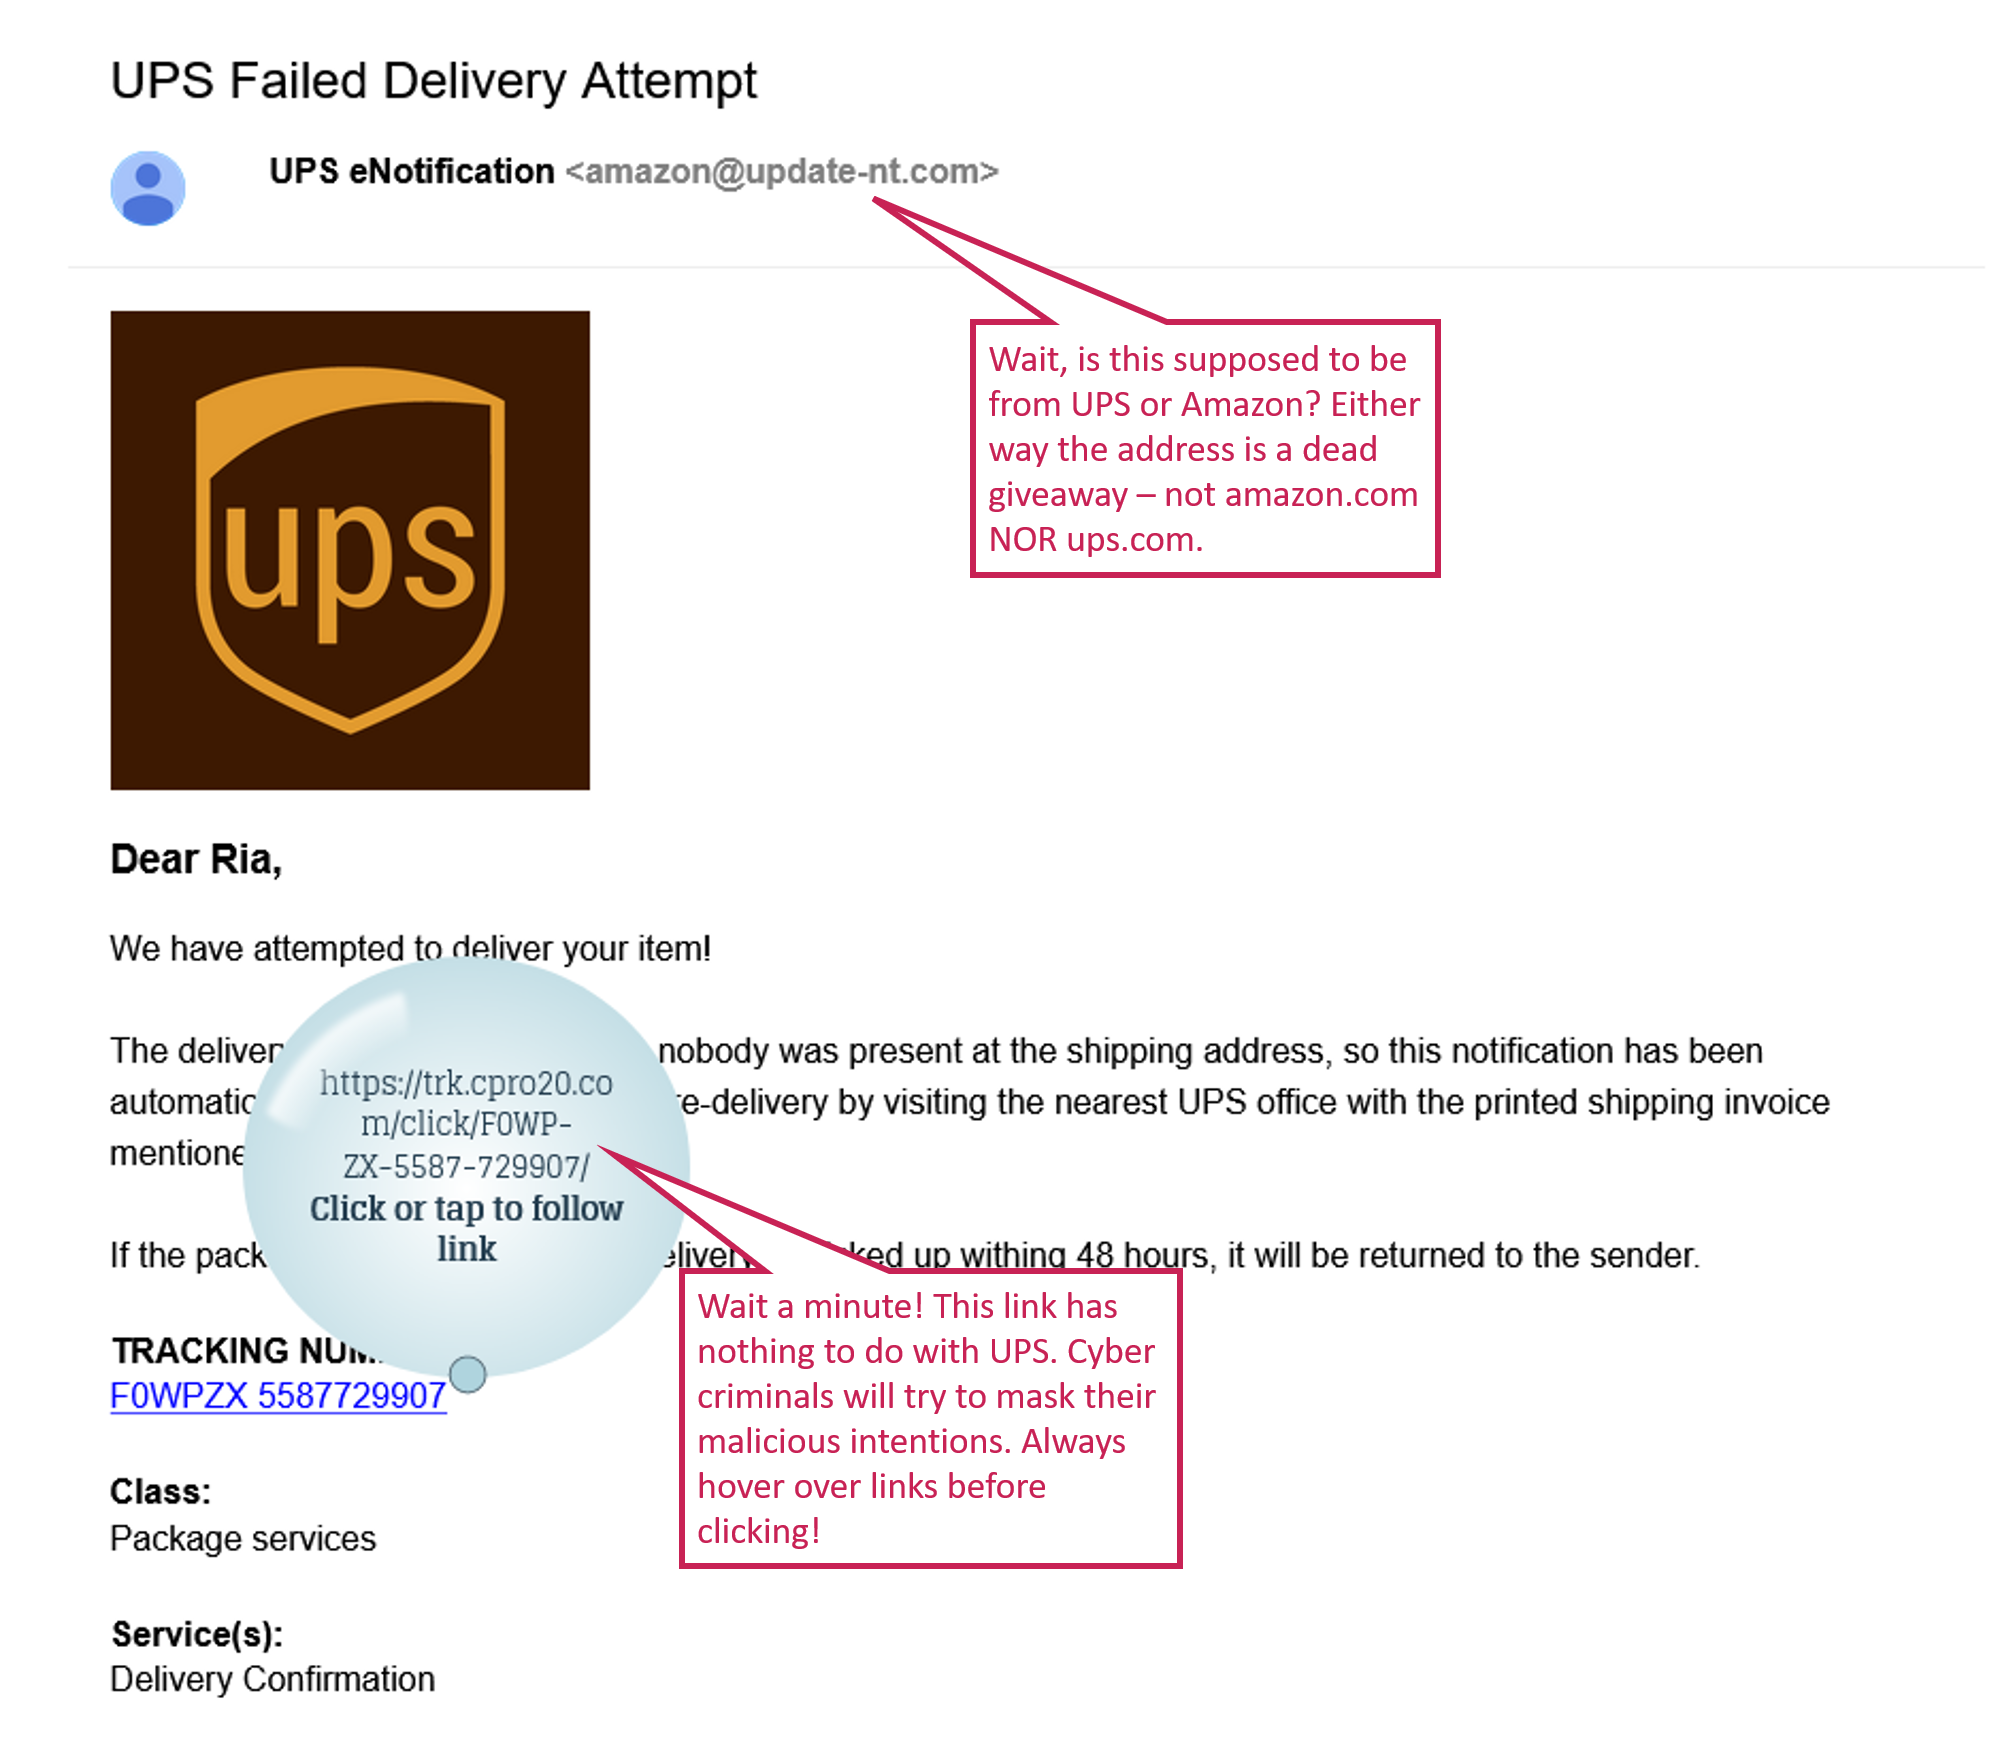
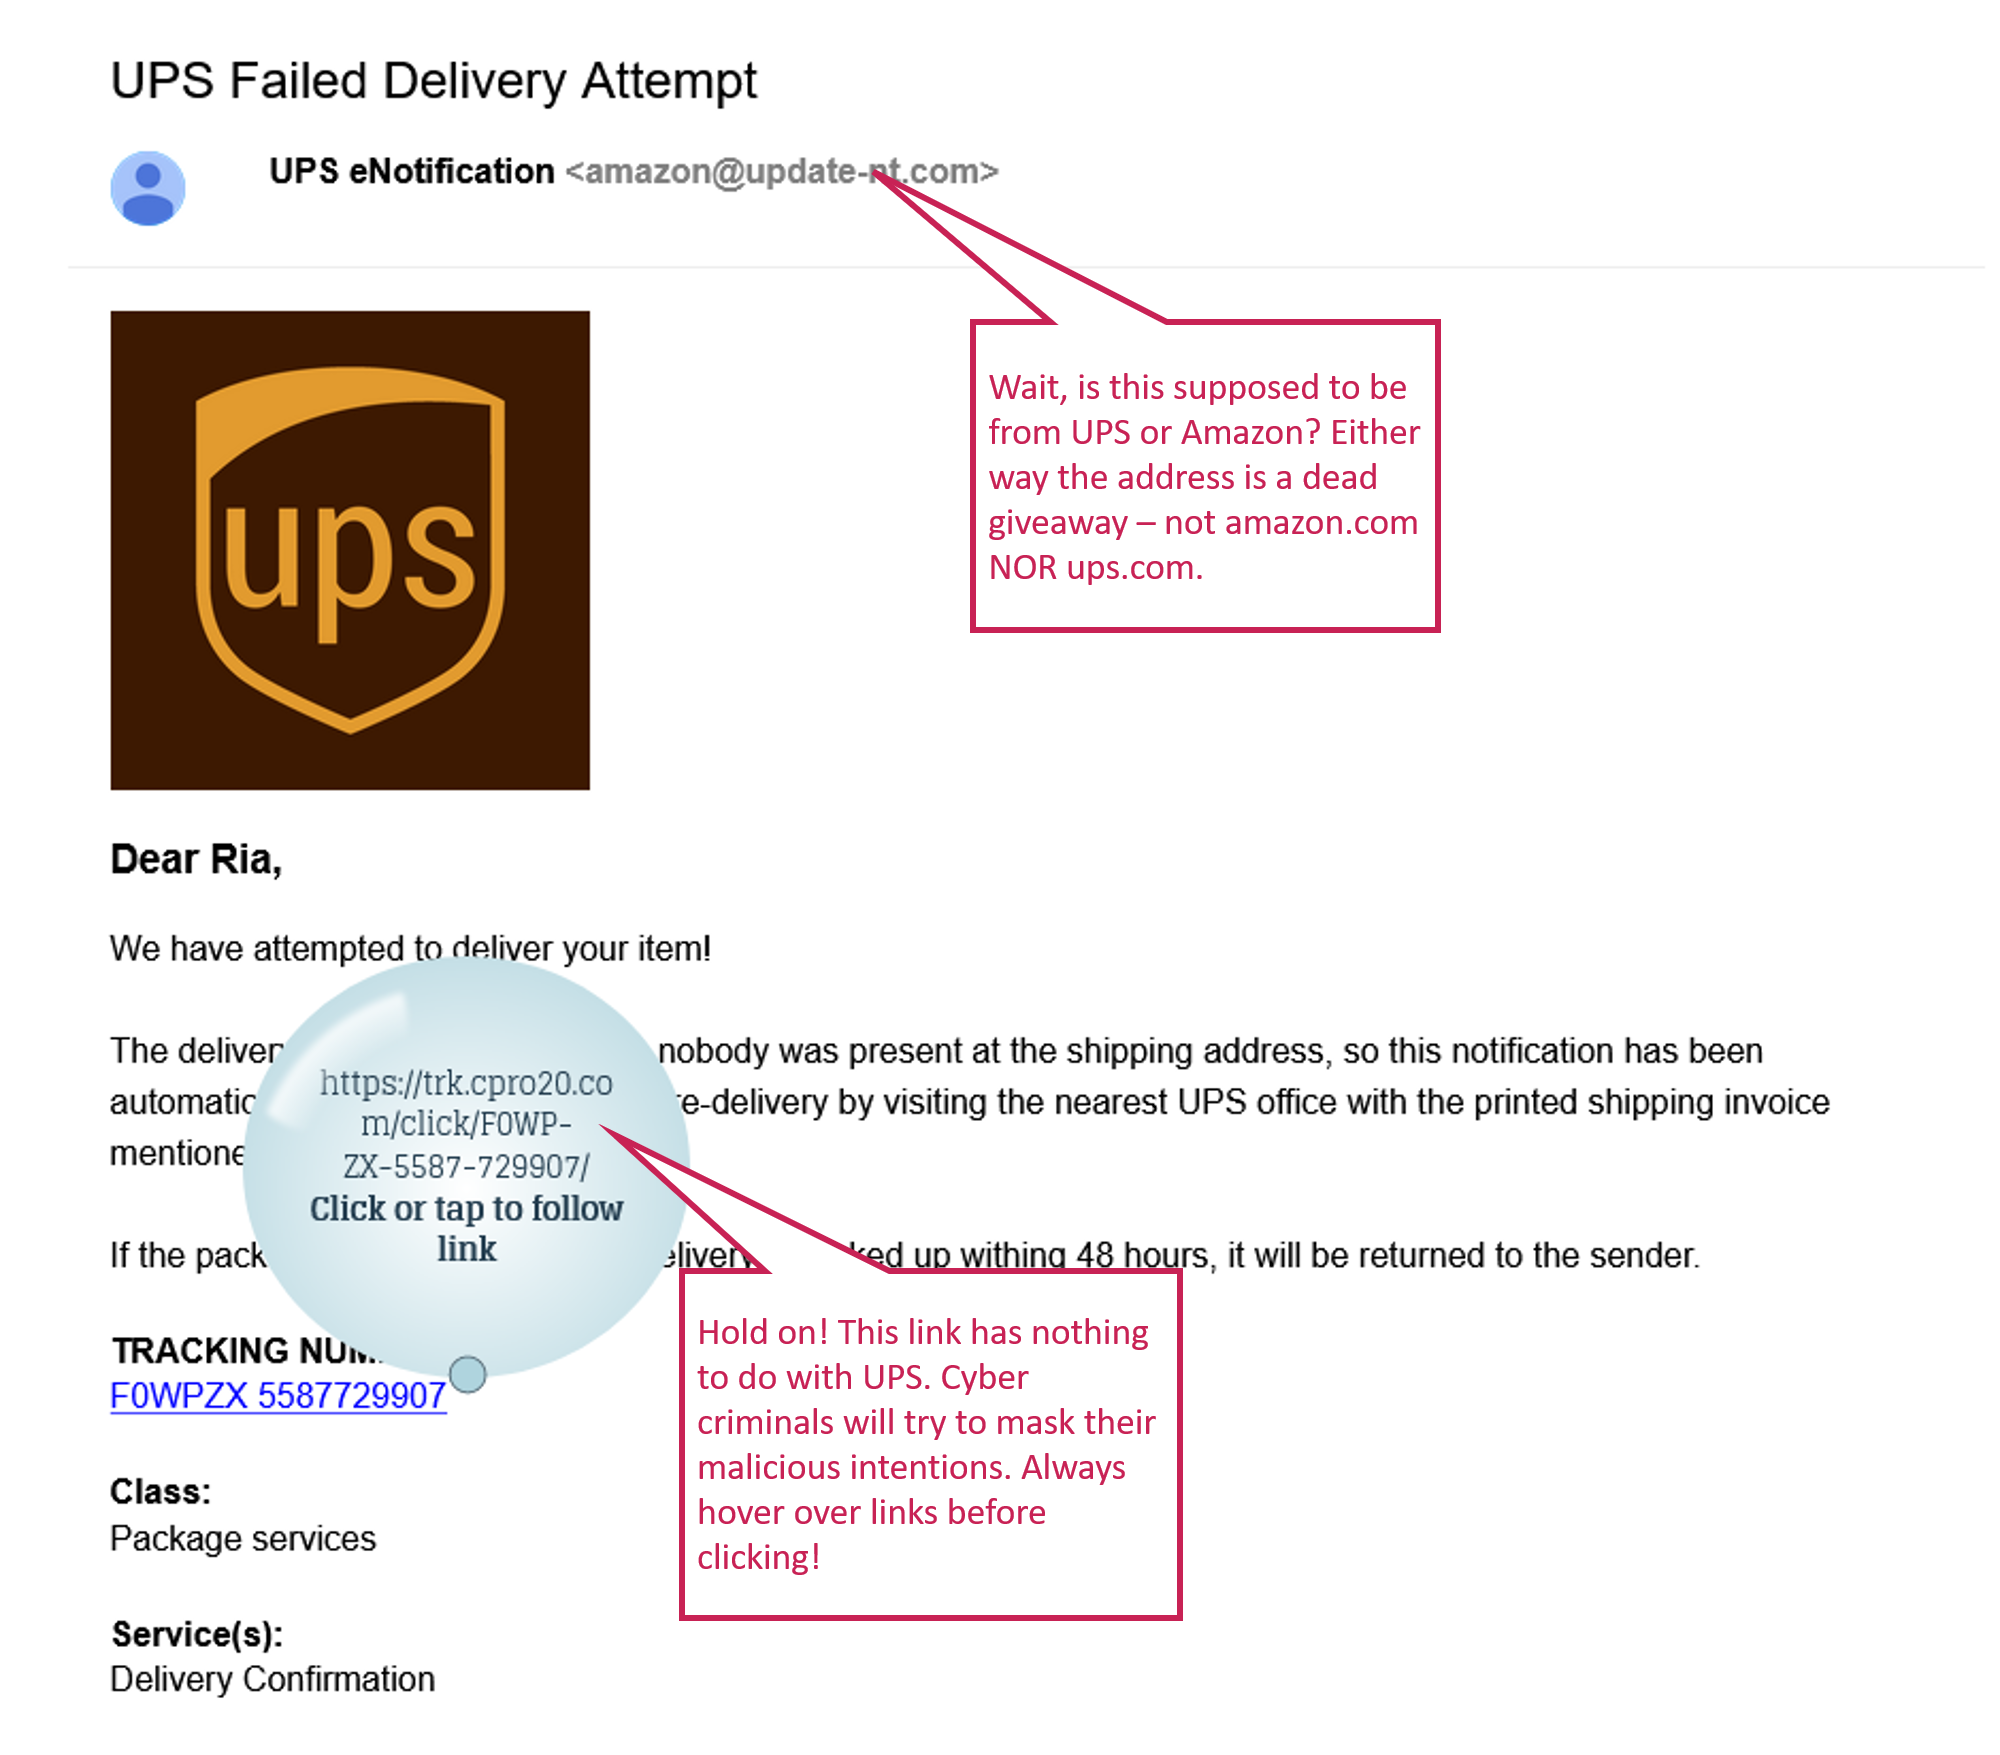
update oopsie images

Changed region(s): [[0.434, 0.0923, 0.713, 0.3692], [0.341, 0.7077, 0.589, 0.9231], [0.31, 0.6462, 0.403, 0.7077]]

diff --git a/pages/question7.html b/pages/question7.html
@@ -188,7 +188,7 @@
                             <p>Scroll to learn why</p>
                         </div>
                         <div class="mistakes">
-                            <img src="../images/ups modal pic.png">
+                            <img src="../images/Answer_images/Quiz_Site_Slides/Slide7.png">
                             </img>
                         </div>
                          <!-- <span class="close">&times;</span> -->
